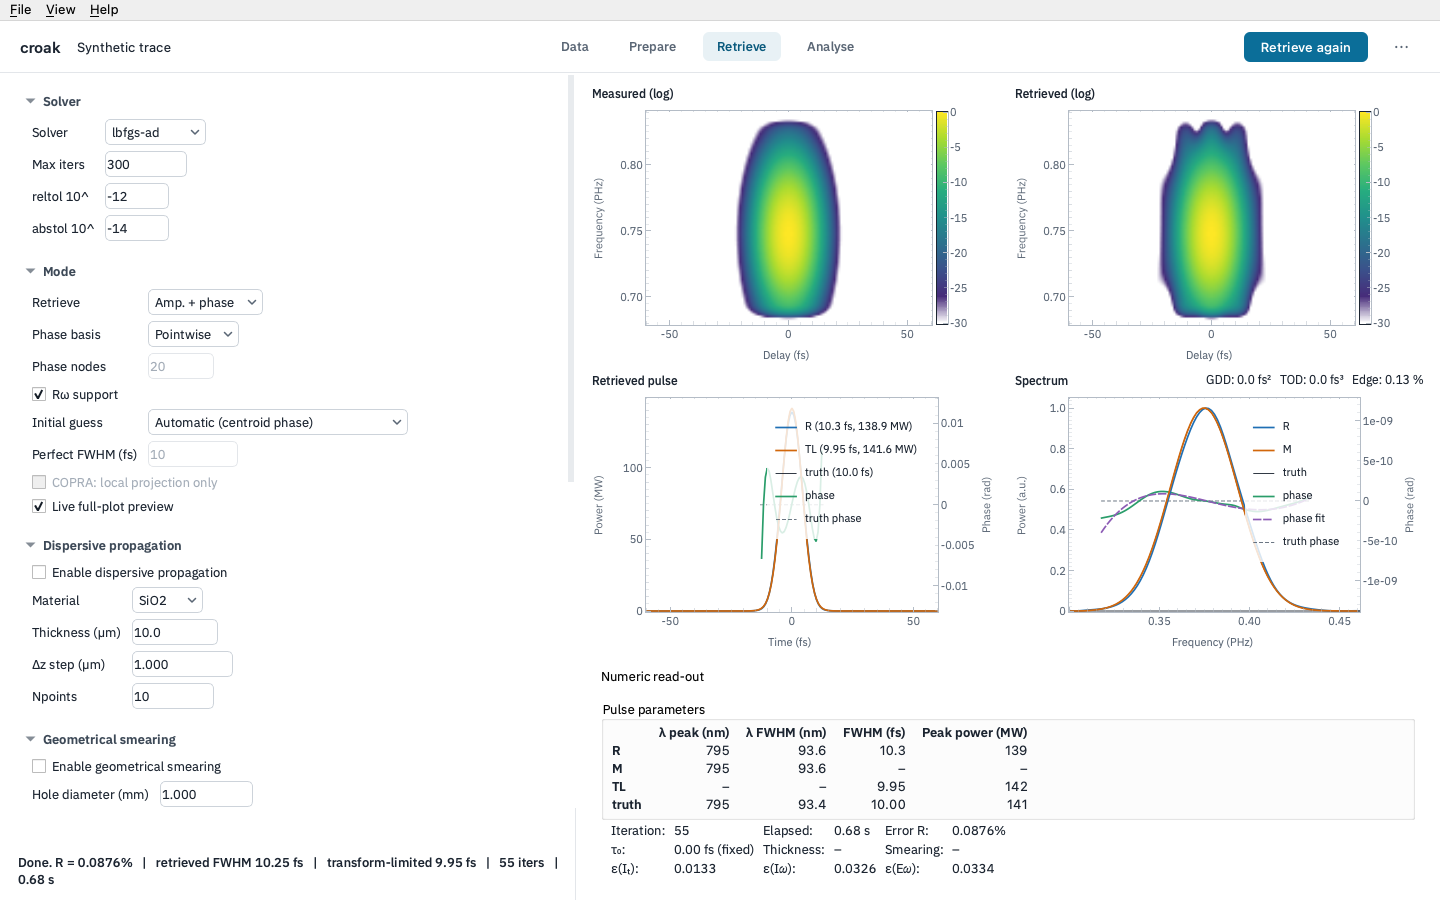
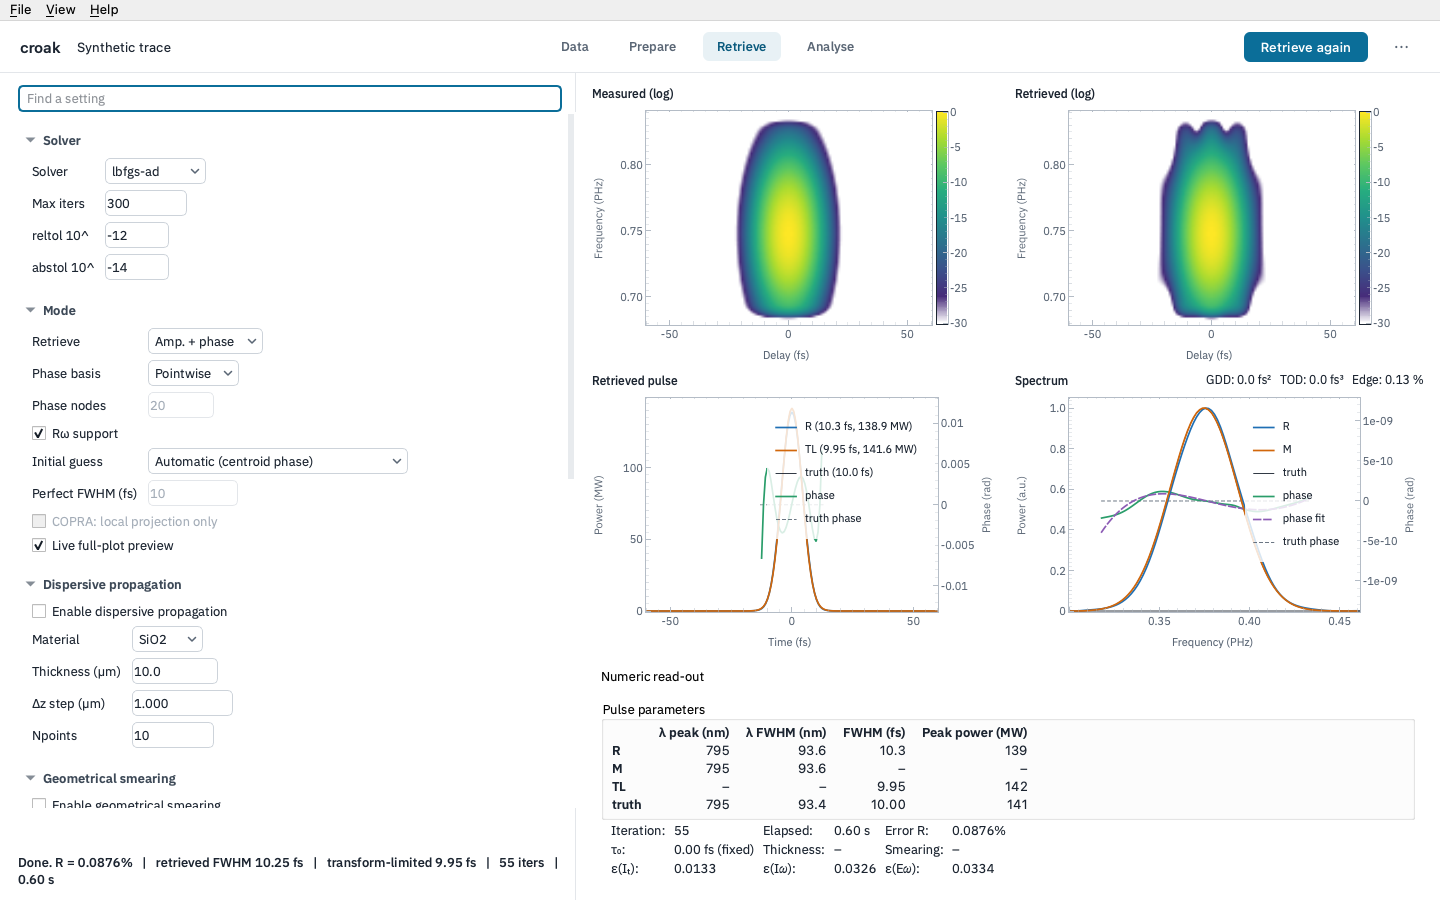
Bring the GUI's own texts in line with the window
Retrieve's help points at Analyse for the full pages; the Home tile says
which trace files load (HDF5 and NPZ); docstrings and comments name the
window instead of the wizard; the mirror stack's range note takes its
colour from the theme. The screenshots show the corrected tile.

Changed region(s): [[0.0, 0.0933, 0.4062, 0.9022]]

diff --git a/croak/gui/state.py b/croak/gui/state.py
@@ -3,7 +3,7 @@
 ``WizardState`` (a ``QObject``) holds the four stages' parameters and the
 pipeline outputs (``load_data`` → ``tracedata`` → ``result`` → ``processed``),
 emits change signals, and implements cascading invalidation so editing an
-upstream stage clears the downstream results — the wizard can then never show a
+upstream stage clears the downstream results — the window can then never show a
 retrieved pulse that belongs to a superseded set of load/preprocess parameters.
 """
 
@@ -45,14 +45,14 @@ __all__ = [
 
 
 class WizardState(QObject):
-    """Holds wizard parameters and pipeline outputs, with change signals."""
+    """Holds the session's parameters and pipeline outputs, with change signals."""
 
     load_data_changed = Signal()
     tracedata_changed = Signal()
     result_changed = Signal()
     uncertainty_changed = Signal()
     status = Signal(str)
-    # Request the wizard to point the current session at a new dataset folder
+    # Request the window to point the current session at a new dataset folder
     # (its argument) and replay load → preprocess → retrieve. Emitted by the
     # Retrieve stage's "Retarget…" button; handled in croak.gui.window.MainWindow.
     retarget_requested = Signal(str)
@@ -123,7 +123,7 @@ class WizardState(QObject):
         """Whether the session holds work a new session would discard.
 
         True once a trace is loaded (or generated) or a retrieval exists; the
-        wizard asks before leaving such a session for the welcome menu.
+        window asks before a new session replaces it.
         """
         return (
             self.load_data is not None
@@ -209,7 +209,7 @@ class WizardState(QObject):
 
         The stage widgets bind to these dataclass *instances* by reference, so we
         copy the parsed field values into the existing objects rather than
-        replacing them (the wizard then rebuilds the controls to reflect them).
+        replacing them (the window then rebuilds the pages to reflect them).
         """
         parsed = SessionOptions.from_dict(options)
         self.entry = parsed.entry

diff --git a/croak/gui/stage_retrieve.py b/croak/gui/stage_retrieve.py
@@ -1,4 +1,4 @@
-"""Stage 3 — run the retrieval (threaded) and show the result on pages of panels.
+"""Retrieve — run the retrieval (threaded) and show it live on the overview.
 
 Post-retrieval λ/τ filtering can be toggled on the result pane and re-plots the
 stored result without re-running the retrieval.
@@ -62,11 +62,12 @@ _INITIAL_GUESSES = {
 class StageRetrieve(RunControls, Stage):
     HELP_TITLE = "Retrieve"
     HELP_INTRO = (
-        "Run the phase-retrieval algorithm on the preprocessed trace. The result "
-        "is shown on three pages of panels — Traces, Pulse and Diagnostics — each "
-        "of which can be popped out into its own window; Save… writes the full "
-        "twelve-panel overview. Post-retrieval λ/τ filtering re-plots the stored "
-        "result without re-running the retrieval."
+        "Run the phase-retrieval algorithm on the preprocessed trace. The live "
+        "overview shows the traces, the pulse and its spectrum as it converges; "
+        "the full pages of panels (Traces, Pulse, Diagnostics) are under Analyse, "
+        "where each can be exported or popped out. Save… writes the twelve-panel "
+        "overview. Post-retrieval λ/τ filtering re-plots the stored result "
+        "without re-running the retrieval."
     )
     HELP = [
         (
@@ -1887,9 +1888,9 @@ class StageRetrieve(RunControls, Stage):
         self.set_status("Stopped." if message == "stopped" else f"Failed: {message}")
 
     def _retarget(self):
-        """Ask for a new dataset folder and hand off to the wizard to replay it.
+        """Ask for a new dataset folder and hand off to the window to replay it.
 
-        The wizard rewrites the dataset-folder load paths (keeping calibration
+        The window rewrites the dataset-folder load paths (keeping calibration
         fixed) and reruns load → preprocess → retrieve with the current settings.
         """
         folder = QFileDialog.getExistingDirectory(self, "Select new dataset folder")

diff --git a/croak/gui/settings.py b/croak/gui/settings.py
@@ -1,8 +1,9 @@
-"""Persistent user preferences: window geometry, control-column width, folded strips.
+"""Persistent user preferences: window geometry, folded sections, recent sessions.
 
-The wizard remembers how its user last arranged it — the un-maximised window
-size and position, the width of the control column, which auxiliary strips were
-folded — so a small-screen user sets things up once. Values live in a
+The window remembers how its user last arranged it — the un-maximised window
+size and position, which sections and strips were folded, the spectral axis —
+and the sessions last saved or opened, so a small-screen user sets things up
+once. Values live in a
 :class:`~PySide6.QtCore.QSettings` store in INI format under the user scope, keyed
 by the organisation and application names from :mod:`.branding`; passing those
 explicitly means the store is the same whether or not
@@ -58,7 +59,7 @@ SCREEN_FILL = 0.9
 
 
 def user_settings() -> QSettings:
-    """Open the wizard's settings store (INI, user scope, explicit names)."""
+    """Open the GUI's settings store (INI, user scope, explicit names)."""
     return QSettings(
         QSettings.Format.IniFormat,
         QSettings.Scope.UserScope,

diff --git a/croak/gui/stage_preprocess.py b/croak/gui/stage_preprocess.py
@@ -663,7 +663,7 @@ class StagePreprocess(Stage):
         """Drop our reference to a finished worker (kept alive while running)."""
         if worker in self._workers:
             self._workers.remove(worker)
-        # The worker is parented to this stage, so when the wizard rebuilds its
+        # The worker is parented to this stage, so when the window rebuilds its
         # stages (``deleteLater`` on each) between the thread finishing and this
         # queued slot running, Qt has already destroyed it with its parent.
         if shiboken6.isValid(worker):

diff --git a/croak/gui/help.py b/croak/gui/help.py
@@ -4,7 +4,7 @@ Each stage declares :data:`Stage.HELP` as an ordered list of
 ``(section, [(label, text)])``. The same ``text`` is shown in two places from a
 single source:
 
-* the scrollable summary dialog opened by the wizard header's ``?`` button
+* the scrollable summary dialog opened by Help for this stage (F1, or the ⋯ menu)
   (:class:`HelpDialog`), and
 * the hover tooltip on the matching control, applied by :func:`apply_tooltips`.
 

diff --git a/croak/gui/home.py b/croak/gui/home.py
@@ -31,8 +31,8 @@ ENTRY_TILES = (
     (
         "experimental",
         "Measured trace",
-        "Load a FROG or dispersion-scan measurement from HDF5, NPZ or text, "
-        "with its spectrum, backgrounds and calibration.",
+        "Load a measured FROG trace from HDF5 or NPZ, with its independent "
+        "spectrum, backgrounds and calibration.",
     ),
     (
         "simulated",

diff --git a/croak/gui/mirror_stack.py b/croak/gui/mirror_stack.py
@@ -102,7 +102,7 @@ class MirrorRow(QWidget):
         outer.addWidget(line)
 
         self.range_label = QLabel("–")
-        self.range_label.setStyleSheet("color: gray;")
+        self.range_label.setObjectName("help")  # secondary text, from the theme
         outer.addWidget(self.range_label)
 
         # custom-file sub-controls, shown only when 'Custom file…' is selected

diff --git a/croak/gui/stage_simulated.py b/croak/gui/stage_simulated.py
@@ -474,7 +474,7 @@ class StageSimulated(Stage):
         self.changed.emit()
 
     def _set_can_load(self, can: bool) -> None:
-        """Record whether a trace previewed, and refresh the wizard's Next button."""
+        """Record whether a trace previewed, and refresh the window's Continue."""
         self._can_load = can
         self.changed.emit()
 

diff --git a/croak/gui/branding.py b/croak/gui/branding.py
@@ -1,4 +1,4 @@
-"""Application icon and desktop identity for the wizard.
+"""Application icon and desktop identity for the GUI.
 
 Keeps the window-system-facing identity — the name the desktop shows, the icon in
 the macOS Dock / Windows taskbar / Linux dock — in one place, out of
